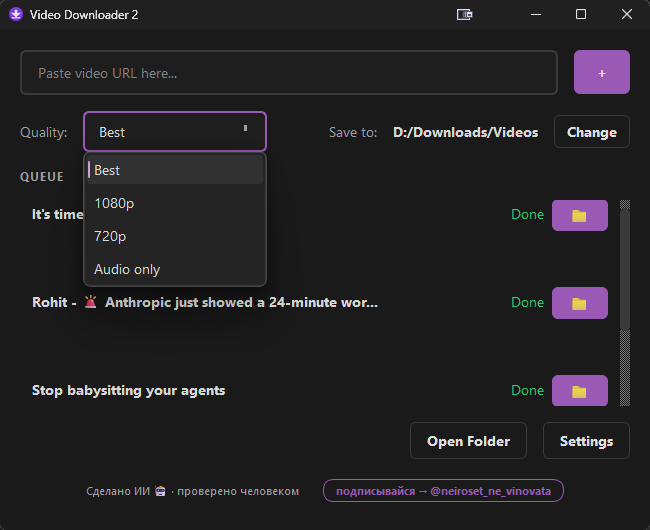
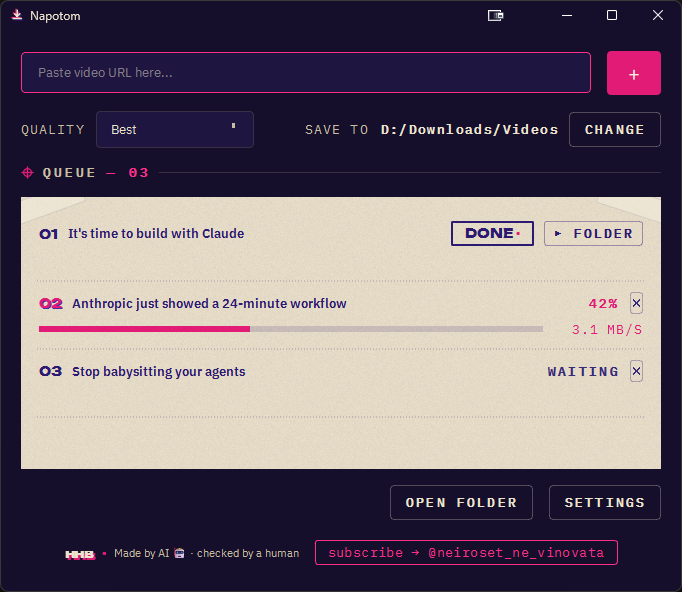
docs: refresh README screenshots and design blurb for nnv rebrand

diff --git a/README.md b/README.md
@@ -12,7 +12,7 @@
 ![Platform](https://img.shields.io/badge/Platform-Windows%20%7C%20macOS-blue?style=for-the-badge)
 [![License: MIT](https://img.shields.io/badge/License-MIT-green?style=for-the-badge)](LICENSE)
 
-![Video Downloader 2](screenshots/main-window.png)
+![Napotom](screenshots/main-window.png)
 
 </div>
 
@@ -28,7 +28,7 @@ Napotom (formerly video-downloader2) is a small desktop app for grabbing video a
 - 🔔 **Completion notifications** with sound
 - 🔄 **yt-dlp auto-update** from Settings
 - 🌐 **Bilingual interface** — English & Russian
-- 🎨 **Dark theme** with a purple accent (`#9b59b6`)
+- 🎨 **Two-ink print design** — magenta + violet inks on an ink-wall and kraft paper, the [«Нейросеть не виновата»](https://t.me/+GpZ_G6I4yl1jZDcy) brand look
 - 📦 **Bundled ffmpeg and Node.js** (Windows) — no extra installs needed
 - 🍪 **Cookie import** for age-restricted and members-only videos
 
